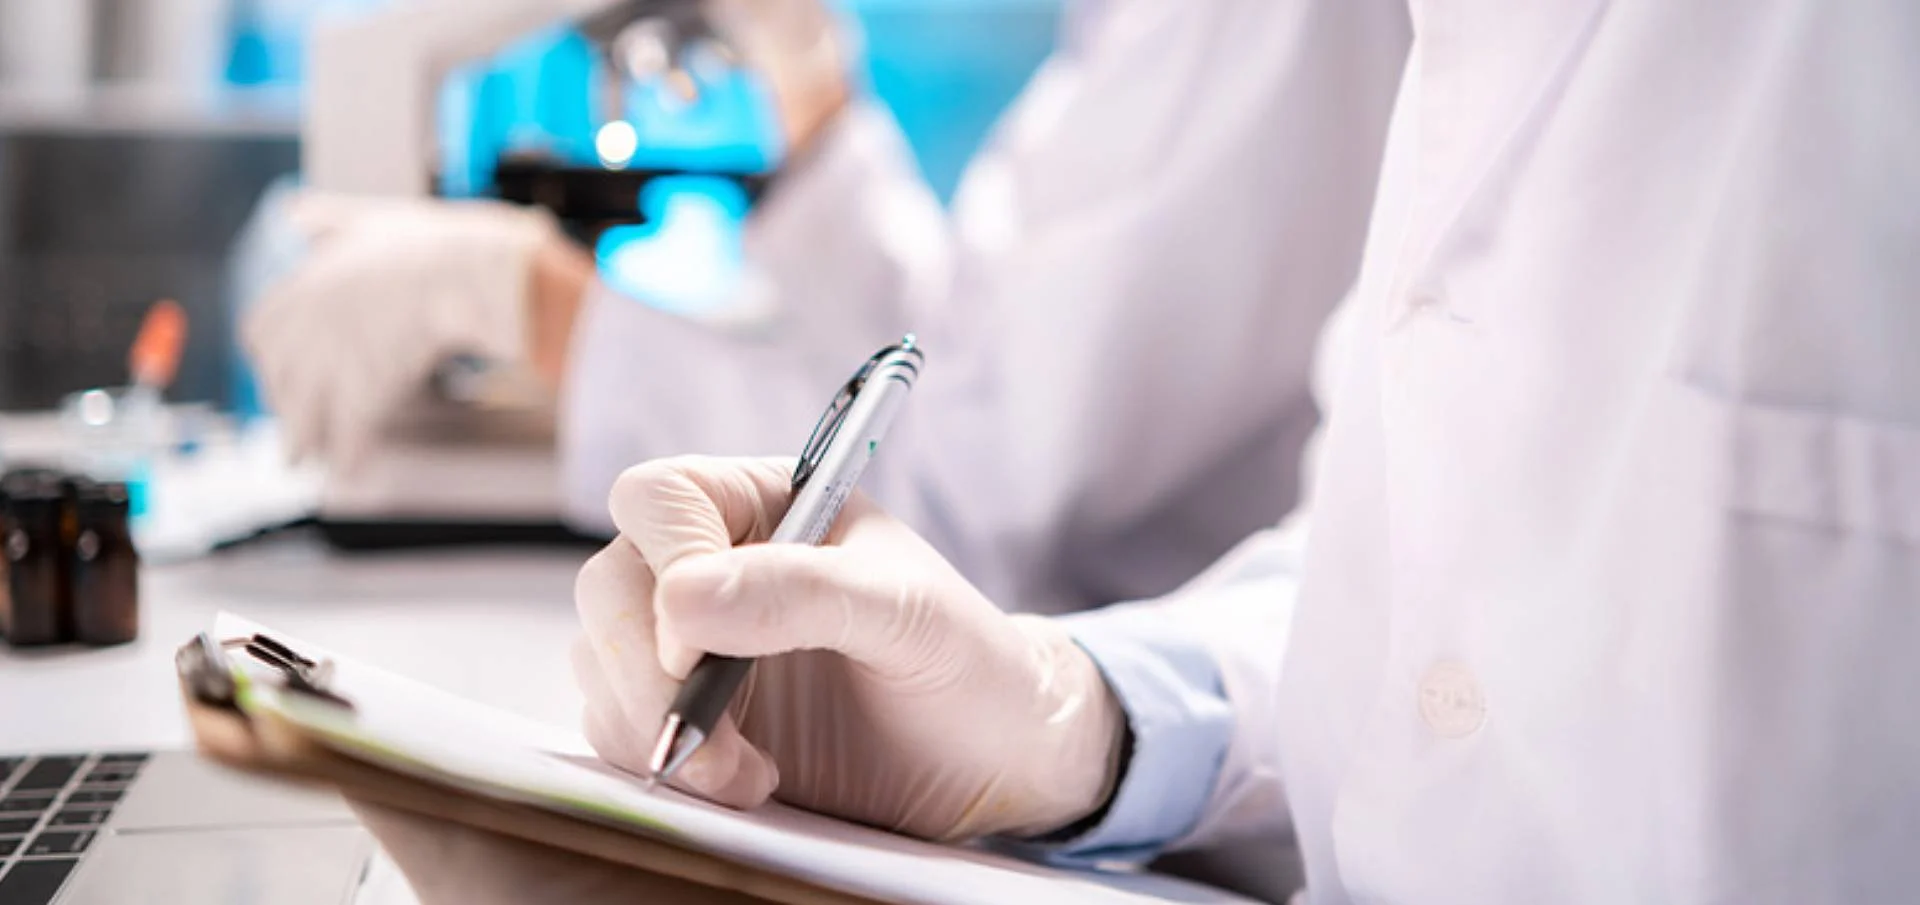
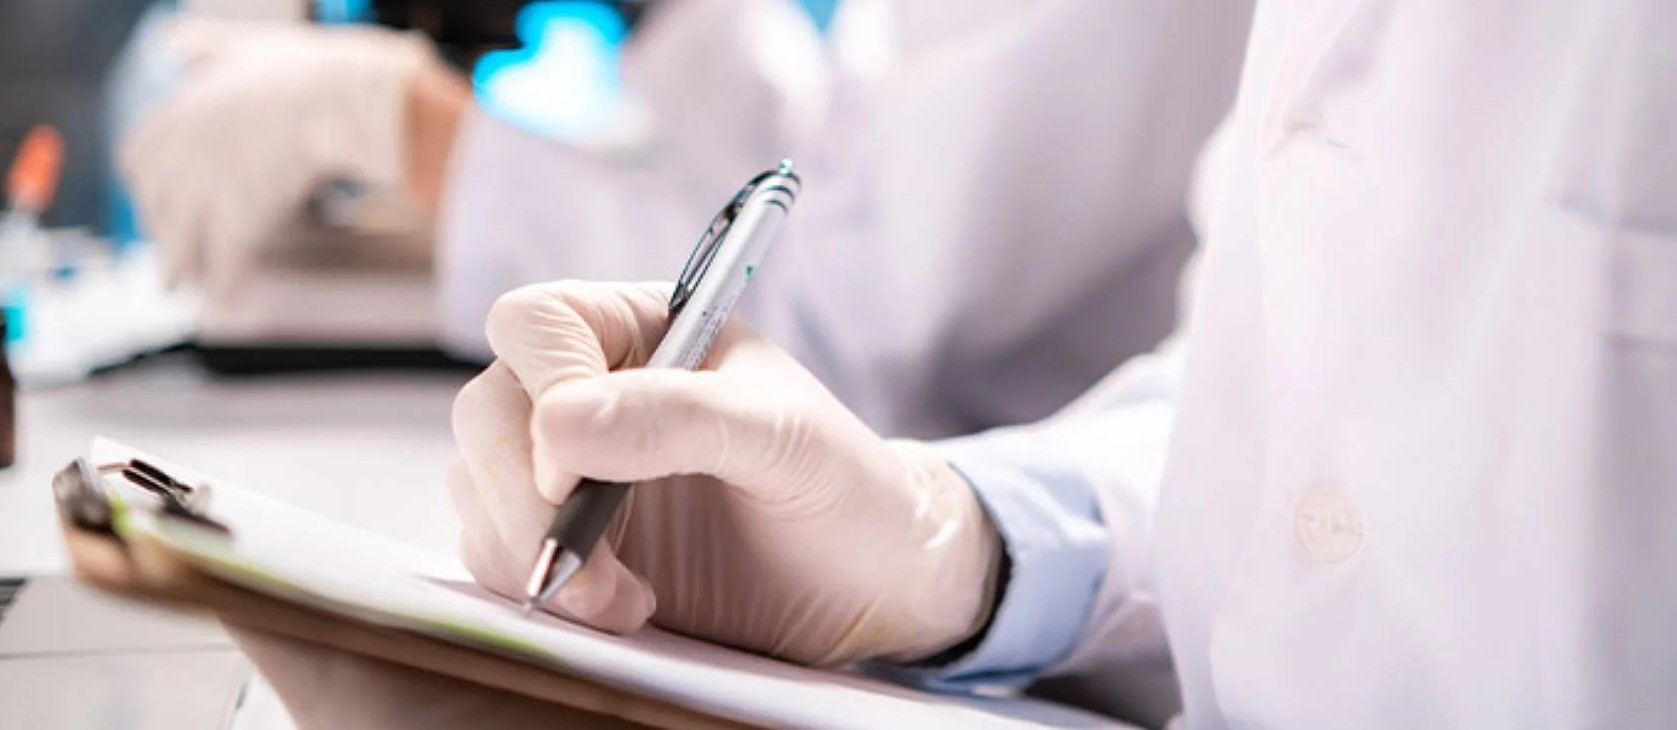
Update image alt attribute for better accessibility and replace investigacion.jpg with a new version

diff --git a/generic3.html b/generic3.html
@@ -54,7 +54,7 @@
 						<div class="inner">
 							<h1>PRODUCCIÓN CIENTÍFICA</h1>
 							<span class="image main">
-								<img src="images/investigacion.jpg" alt="" width="" height="500" />
+								<img src="images/investigacion.jpg" alt=""/>
 							</span>
 							<p>Trabajos de investigación publicadas en prestigiosas revistas del Ph.D. Edwin M. Pino Vargas</p>
 
